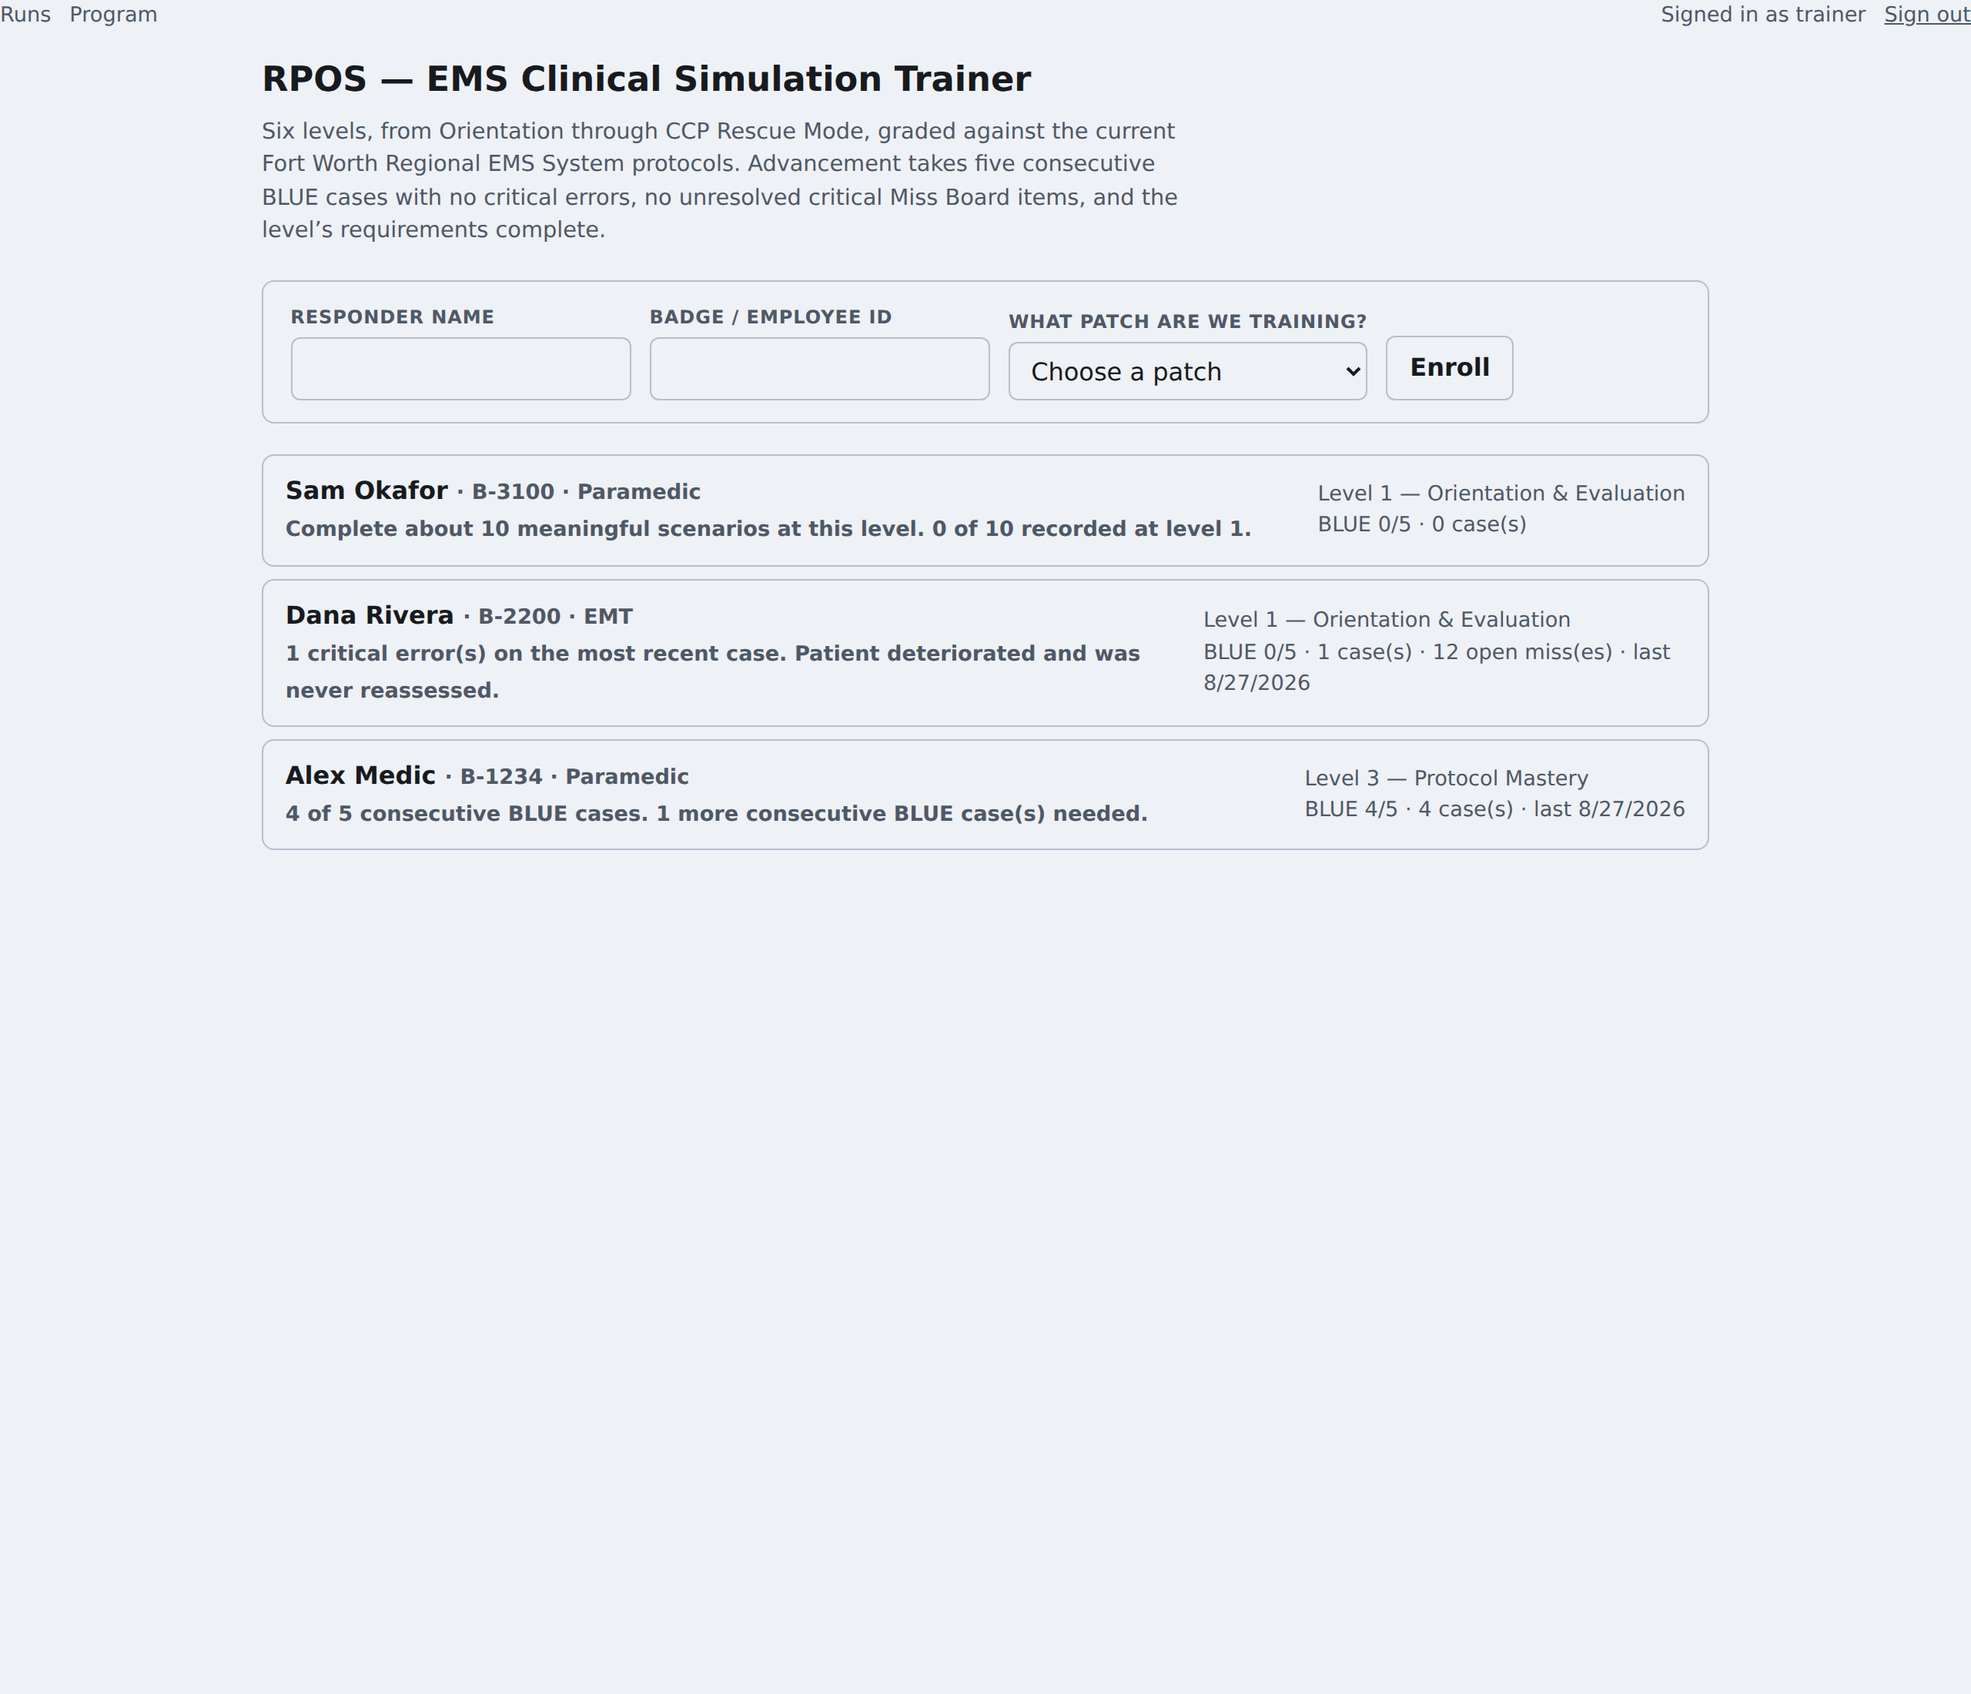
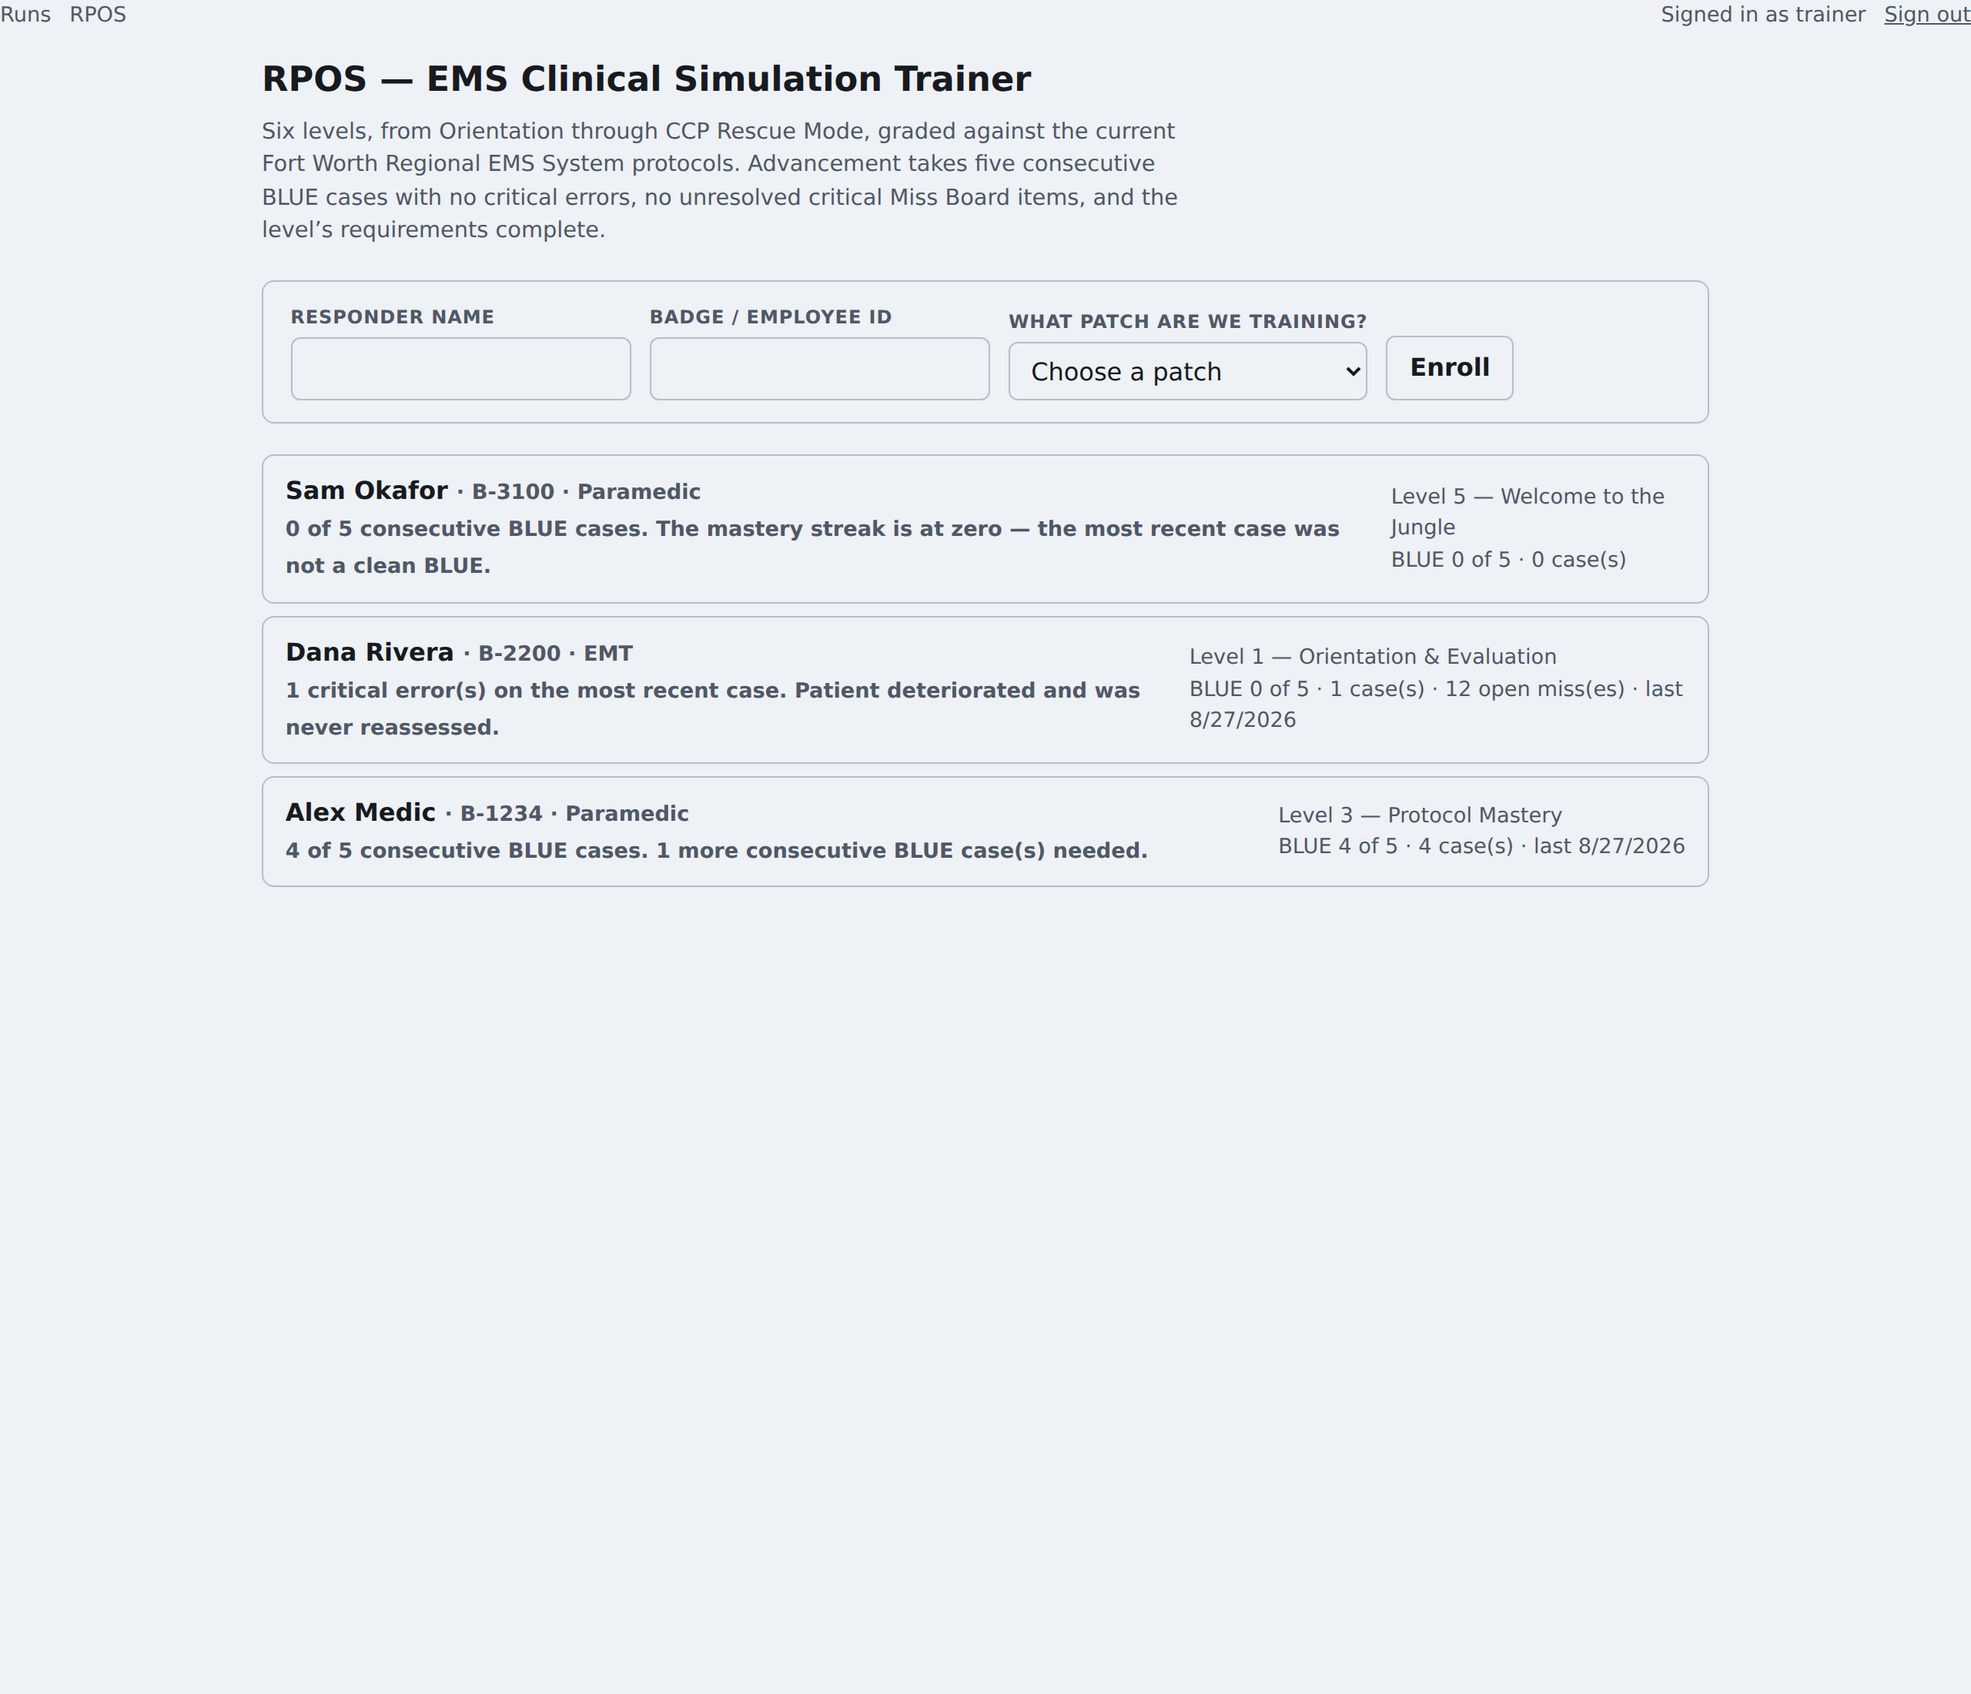
Fix two flaws found by end-to-end verification
Driving the admin flow in a real browser against a real database surfaced
two things the unit tests could not see.

A rejected enrollment wiped the form. React resets an uncontrolled form once
a Server Action completes, so a training officer who forgot to pick a patch
lost the name and badge they had just typed and started over. The action now
echoes the submitted values back on failure only -- not on success, where the
reset is what we want -- and the form repopulates from them. The fields are
also marked required, so the common slip never reaches the server at all.

A mastery streak longer than the requirement read "10 of 5", which looks like
a broken progress bar. streakLabel() now states the requirement as met and
follows it with the true count: "5 of 5 - 10 consecutive". The longer streak
is worth showing -- it says the learner has been holding mastery rather than
just touching it -- it simply is not progress toward a bar that is full.

Also verified in this pass, and unchanged: the schema applies to a database
that has never seen this app and is safe to re-run; enrollment is idempotent
and never silently changes an existing responder's patch or level; the
advance button is disabled while ineligible AND the action refuses a forced
submission, leaving the level untouched; ten clean cases carry a level 1
responder to eligibility and advancement moves them to level 2 on both the
standing page and the roster.
[…]

Changed region(s): [[0.125, 0.2782, 0.875, 0.5255], [0.0312, 0.0, 0.0625, 0.0309]]

diff --git a/components/Rpos/EnrollForm.test.tsx b/components/Rpos/EnrollForm.test.tsx
@@ -1,0 +1,53 @@
+import { describe, it, expect, vi } from 'vitest';
+import { render, screen } from '@testing-library/react';
+import { EnrollForm } from './EnrollForm';
+
+const enrollMock = vi.fn();
+const useActionStateMock = vi.fn();
+
+vi.mock('@/lib/rpos/actions', () => ({
+  enrollResponder: (...args: unknown[]) => enrollMock(...args),
+}));
+vi.mock('react', async () => {
+  const actual = await vi.importActual<typeof import('react')>('react');
+  return { ...actual, useActionState: (...args: unknown[]) => useActionStateMock(...args) };
+});
+
+function renderWith(state: Record<string, unknown>) {
+  useActionStateMock.mockReturnValue([state, vi.fn(), false]);
+  return render(<EnrollForm />);
+}
+
+describe('EnrollForm', () => {
+  it('has accessible, properly associated fields', () => {
+    renderWith({});
+    expect(screen.getByLabelText(/responder name/i)).toBeInTheDocument();
+    expect(screen.getByLabelText(/badge \/ employee id/i)).toBeInTheDocument();
+    expect(screen.getByLabelText(/what patch/i)).toBeInTheDocument();
+  });
+
+  it('offers no default patch, so a responder cannot be enrolled without one', () => {
+    renderWith({});
+    expect(screen.getByLabelText(/what patch/i)).toHaveValue('');
+    expect(screen.getByRole('option', { name: 'EMT' })).toBeInTheDocument();
+    expect(screen.getByRole('option', { name: 'Paramedic' })).toBeInTheDocument();
+  });
+
+  it('keeps what the user typed after a rejected submission', () => {
+    // React resets the form once the action completes; the echoed values are
+    // what stop a slip on one field from wiping the others.
+    renderWith({
+      error: 'Enter the responder’s name, badge / employee ID, and patch.',
+      values: { learnerName: 'Jordan Blake', badgeId: 'B-9100', certification: '' },
+    });
+    expect(screen.getByLabelText(/responder name/i)).toHaveValue('Jordan Blake');
+    expect(screen.getByLabelText(/badge \/ employee id/i)).toHaveValue('B-9100');
+    expect(screen.getByRole('alert')).toHaveTextContent(/Enter the responder/);
+  });
+
+  it('starts empty again after a successful enrollment', () => {
+    renderWith({ message: 'Jordan Blake is on the program at level 1.' });
+    expect(screen.getByLabelText(/responder name/i)).toHaveValue('');
+    expect(screen.getByRole('status')).toHaveTextContent(/on the program/);
+  });
+});

diff --git a/lib/rpos/actions.ts b/lib/rpos/actions.ts
@@ -13,6 +13,20 @@ import type { Certification, LevelNumber, PersonalityMode } from './types';
 export interface RposFormState {
   readonly message?: string;
   readonly error?: string;
+  /**
+   * What the user typed, echoed back on failure only.
+   *
+   * React resets an uncontrolled form once a Server Action completes, so
+   * without this a rejected submission wipes the name and badge the training
+   * officer just typed and they start over. Returned on error so the form can
+   * repopulate itself, and deliberately NOT on success, where the reset is
+   * what we want — the next responder starts from an empty form.
+   */
+  readonly values?: {
+    readonly learnerName: string;
+    readonly badgeId: string;
+    readonly certification: string;
+  };
 }
 
 const SESSION_EXPIRED = 'Your session has expired. Sign in again.';
@@ -29,15 +43,17 @@ export async function enrollResponder(
   _previousState: RposFormState,
   formData: FormData,
 ): Promise<RposFormState> {
-  if (!(await getSession())) return { error: SESSION_EXPIRED };
+  const submitted = {
+    learnerName: String(formData.get('learnerName') ?? ''),
+    badgeId: String(formData.get('badgeId') ?? ''),
+    certification: String(formData.get('certification') ?? ''),
+  };
 
-  const parsed = enrollmentInputSchema.safeParse({
-    learnerName: formData.get('learnerName'),
-    badgeId: formData.get('badgeId'),
-    certification: formData.get('certification'),
-  });
+  if (!(await getSession())) return { error: SESSION_EXPIRED, values: submitted };
+
+  const parsed = enrollmentInputSchema.safeParse(submitted);
   if (!parsed.success) {
-    return { error: 'Enter the responder’s name, badge / employee ID, and patch.' };
+    return { error: 'Enter the responder’s name, badge / employee ID, and patch.', values: submitted };
   }
 
   try {
@@ -57,7 +73,7 @@ export async function enrollResponder(
       : { message: `${outcome.enrollment.learnerName} (${parsed.data.badgeId}) is already on the program.` };
   } catch (error) {
     console.error('Failed to enroll responder:', error);
-    return { error: 'Something went wrong enrolling that responder. Please try again.' };
+    return { error: 'Something went wrong enrolling that responder. Please try again.', values: submitted };
   }
 }
 

diff --git a/lib/rpos/actions.test.ts b/lib/rpos/actions.test.ts
@@ -61,6 +61,31 @@ describe('enrollResponder action', () => {
     expect(enrollLearner).not.toHaveBeenCalled();
   });
 
+  it('gives back what the user typed when it rejects, so the form does not wipe itself', async () => {
+    // React resets an uncontrolled form after a Server Action, so a rejected
+    // submission that returned nothing would throw away the other fields.
+    const result = await enrollResponder({}, formData({ learnerName: 'Alex Medic', badgeId: 'B-1234' }));
+    expect(result.values).toEqual({ learnerName: 'Alex Medic', badgeId: 'B-1234', certification: '' });
+  });
+
+  it('gives back what the user typed when the session expired', async () => {
+    getSessionMock.mockResolvedValue(null);
+    const result = await enrollResponder(
+      {},
+      formData({ learnerName: 'Alex Medic', badgeId: 'B-1234', certification: 'emt' }),
+    );
+    expect(result.values?.learnerName).toBe('Alex Medic');
+  });
+
+  it('gives back what the user typed when the database fails', async () => {
+    vi.mocked(enrollLearner).mockRejectedValue(new Error('super secret detail'));
+    const result = await enrollResponder(
+      {},
+      formData({ learnerName: 'Alex Medic', badgeId: 'B-1234', certification: 'emt' }),
+    );
+    expect(result.values?.badgeId).toBe('B-1234');
+  });
+
   it('rejects a patch that is not EMT or Paramedic', async () => {
     const result = await enrollResponder(
       {},
@@ -80,6 +105,8 @@ describe('enrollResponder action', () => {
       expect.objectContaining({ badgeId: 'B-1234', learnerName: 'Alex Medic', certification: 'emt' }),
     );
     expect(result.message).toMatch(/level 1/);
+    // On success the reset is what we want — the next responder starts clean.
+    expect(result.values).toBeUndefined();
   });
 
   it('keeps the real database error server-side', async () => {

diff --git a/components/Rpos/EnrollForm.tsx b/components/Rpos/EnrollForm.tsx
@@ -20,19 +20,41 @@ export function EnrollForm() {
         <label className={styles.label} htmlFor="learner-name">
           Responder name
         </label>
-        <input className={styles.input} id="learner-name" name="learnerName" type="text" autoComplete="off" />
+        <input
+          className={styles.input}
+          id="learner-name"
+          name="learnerName"
+          type="text"
+          autoComplete="off"
+          required
+          defaultValue={state.values?.learnerName ?? ''}
+        />
       </div>
       <div className={styles.field}>
         <label className={styles.label} htmlFor="badge-id">
           Badge / employee ID
         </label>
-        <input className={styles.input} id="badge-id" name="badgeId" type="text" autoComplete="off" />
+        <input
+          className={styles.input}
+          id="badge-id"
+          name="badgeId"
+          type="text"
+          autoComplete="off"
+          required
+          defaultValue={state.values?.badgeId ?? ''}
+        />
       </div>
       <div className={styles.field}>
         <label className={styles.label} htmlFor="certification">
           What patch are we training?
         </label>
-        <select className={styles.select} id="certification" name="certification" defaultValue="">
+        <select
+          className={styles.select}
+          id="certification"
+          name="certification"
+          required
+          defaultValue={state.values?.certification ?? ''}
+        >
           <option value="" disabled>
             Choose a patch
           </option>

diff --git a/lib/rpos/grading.test.ts b/lib/rpos/grading.test.ts
@@ -6,6 +6,7 @@ import {
   gradingWeightsFor,
   isMasteryBand,
   requiresFocusedDebrief,
+  streakLabel,
 } from './grading';
 import { DEFAULT_SIMULATOR_CONFIG } from '@/lib/engine/config';
 
@@ -67,5 +68,22 @@ describe('RPOS grading bands', () => {
     for (const level of [2, 3, 4, 5, 6] as const) {
       expect(gradingWeightsFor(level)).toBeNull();
     }
+  });
+});
+
+describe('mastery streak label', () => {
+  it('reads as progress toward the requirement', () => {
+    expect(streakLabel(0, 5)).toBe('0 of 5');
+    expect(streakLabel(3, 5)).toBe('3 of 5');
+    expect(streakLabel(5, 5)).toBe('5 of 5');
+  });
+
+  it('does not read as "10 of 5" once the streak runs past the requirement', () => {
+    // The longer streak is real and worth showing; it just is not progress.
+    expect(streakLabel(10, 5)).toBe('5 of 5 · 10 consecutive');
+  });
+
+  it('defaults to the program’s own requirement', () => {
+    expect(streakLabel(2)).toBe(`2 of ${REQUIRED_CONSECUTIVE_BLUE}`);
   });
 });

diff --git a/components/Rpos/RposRoster.test.tsx b/components/Rpos/RposRoster.test.tsx
@@ -51,7 +51,7 @@ describe('RPOS views (integration, real database)', () => {
     // 'EMT' also appears in the enroll form's patch selector, so scope to the row.
     expect(screen.getByRole('link', { name: /Dana Rivera/ })).toHaveTextContent('EMT');
     expect(screen.getByText(/Level 1 — Orientation & Evaluation/)).toBeInTheDocument();
-    expect(screen.getByText(/BLUE 0\/5/)).toBeInTheDocument();
+    expect(screen.getByText(/BLUE 0 of 5/)).toBeInTheDocument();
   });
 
   it('builds the streak on the roster as clean cases accumulate', async () => {
@@ -59,7 +59,7 @@ describe('RPOS views (integration, real database)', () => {
     await recordRun();
     await recordRun();
     render(await RposRoster());
-    expect(screen.getByText(/BLUE 2\/5/)).toBeInTheDocument();
+    expect(screen.getByText(/BLUE 2 of 5/)).toBeInTheDocument();
     expect(screen.getByText(/2 case\(s\)/)).toBeInTheDocument();
   });
 

diff --git a/components/Rpos/RposRoster.tsx b/components/Rpos/RposRoster.tsx
@@ -1,5 +1,6 @@
 import Link from 'next/link';
 import { loadRoster } from '@/lib/rpos/load';
+import { streakLabel } from '@/lib/rpos/grading';
 import { EnrollForm } from './EnrollForm';
 import styles from './Rpos.module.css';
 
@@ -52,7 +53,7 @@ export async function RposRoster() {
               <span className={styles.rowMeta}>
                 Level {standing.level} — {standing.levelTitle}
                 <br />
-                BLUE {standing.consecutiveBlue}/{standing.requiredConsecutiveBlue} · {caseCount} case(s)
+                BLUE {streakLabel(standing.consecutiveBlue, standing.requiredConsecutiveBlue)} · {caseCount} case(s)
                 {standing.openMisses.length > 0 ? ` · ${standing.openMisses.length} open miss(es)` : ''}
                 {lastCaseAt ? ` · last ${new Date(lastCaseAt).toLocaleDateString()}` : ''}
               </span>

diff --git a/lib/rpos/grading.ts b/lib/rpos/grading.ts
@@ -43,6 +43,17 @@ export function requiresFocusedDebrief(name: BandName): boolean {
   return name === 'yellow' || name === 'red';
 }
 
+/**
+ * How a mastery streak reads. A streak longer than the requirement is real and
+ * worth showing — it says the learner has been holding mastery, not just
+ * touched it — but "10 of 5" reads like a broken progress bar, so the
+ * requirement is stated as met and the true count follows it.
+ */
+export function streakLabel(streak: number, required: number = REQUIRED_CONSECUTIVE_BLUE): string {
+  if (streak <= required) return `${streak} of ${required}`;
+  return `${required} of ${required} · ${streak} consecutive`;
+}
+
 export interface GradingWeight {
   readonly key: string;
   readonly label: string;

diff --git a/components/Rpos/LevelStandingView.tsx b/components/Rpos/LevelStandingView.tsx
@@ -1,5 +1,5 @@
 import { levelDefinition } from '@/lib/rpos/levels';
-import { gradingWeightsFor, RPOS_BANDS } from '@/lib/rpos/grading';
+import { gradingWeightsFor, streakLabel, RPOS_BANDS } from '@/lib/rpos/grading';
 import { missCategoryLabel } from '@/lib/rpos/missBoard';
 import type { BandName, LevelStanding } from '@/lib/rpos/types';
 import styles from './Rpos.module.css';
@@ -124,7 +124,7 @@ export function LevelStandingView({ standing }: LevelStandingViewProps) {
           />
         ))}
         <span className={styles.rowMeta}>
-          {standing.consecutiveBlue} of {standing.requiredConsecutiveBlue}
+          {streakLabel(standing.consecutiveBlue, standing.requiredConsecutiveBlue)}
         </span>
       </div>
 
